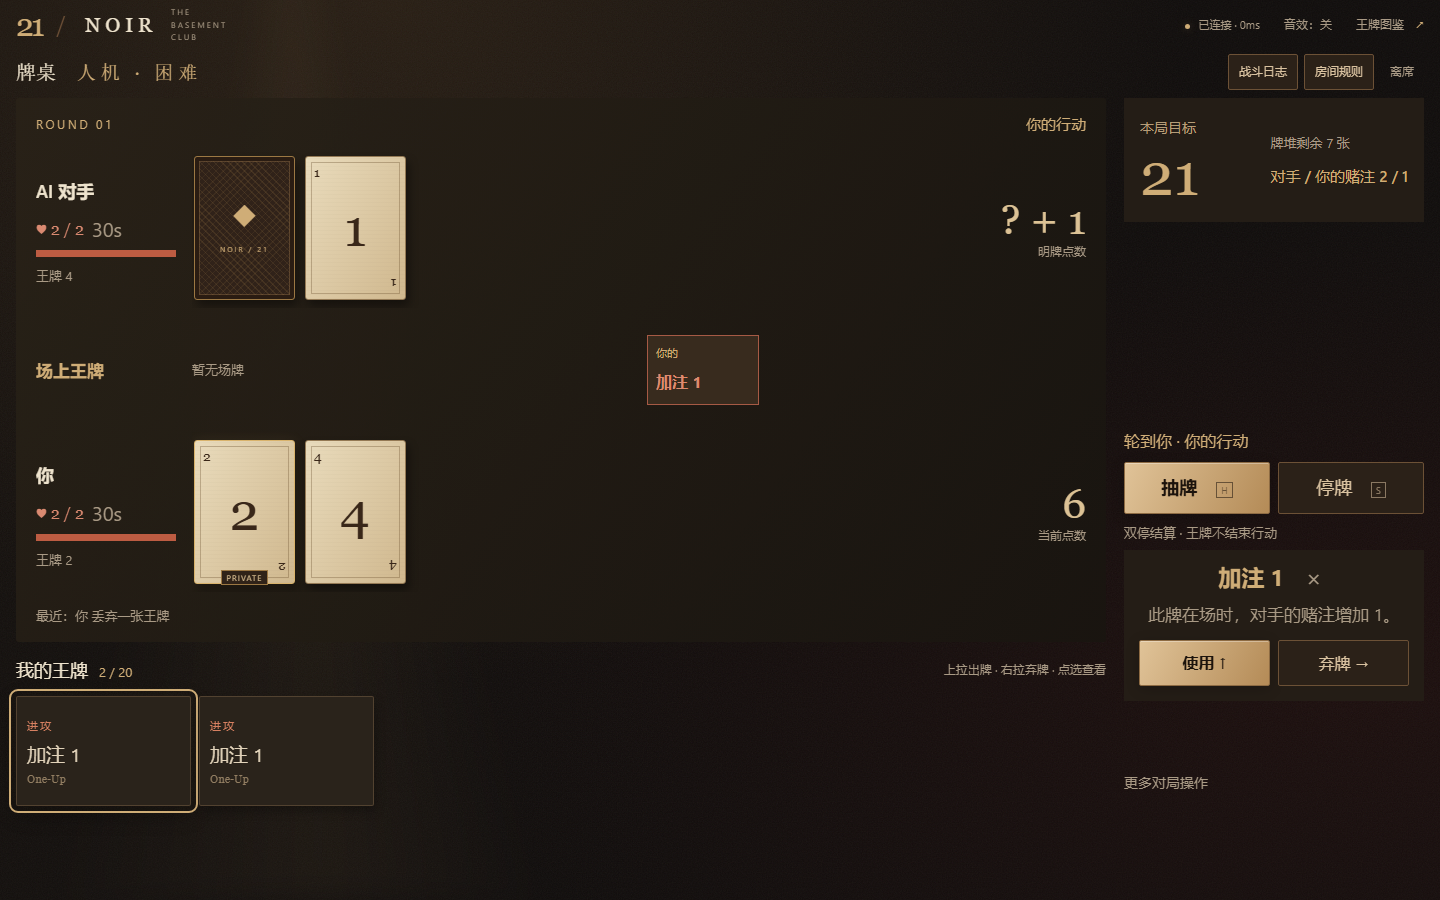
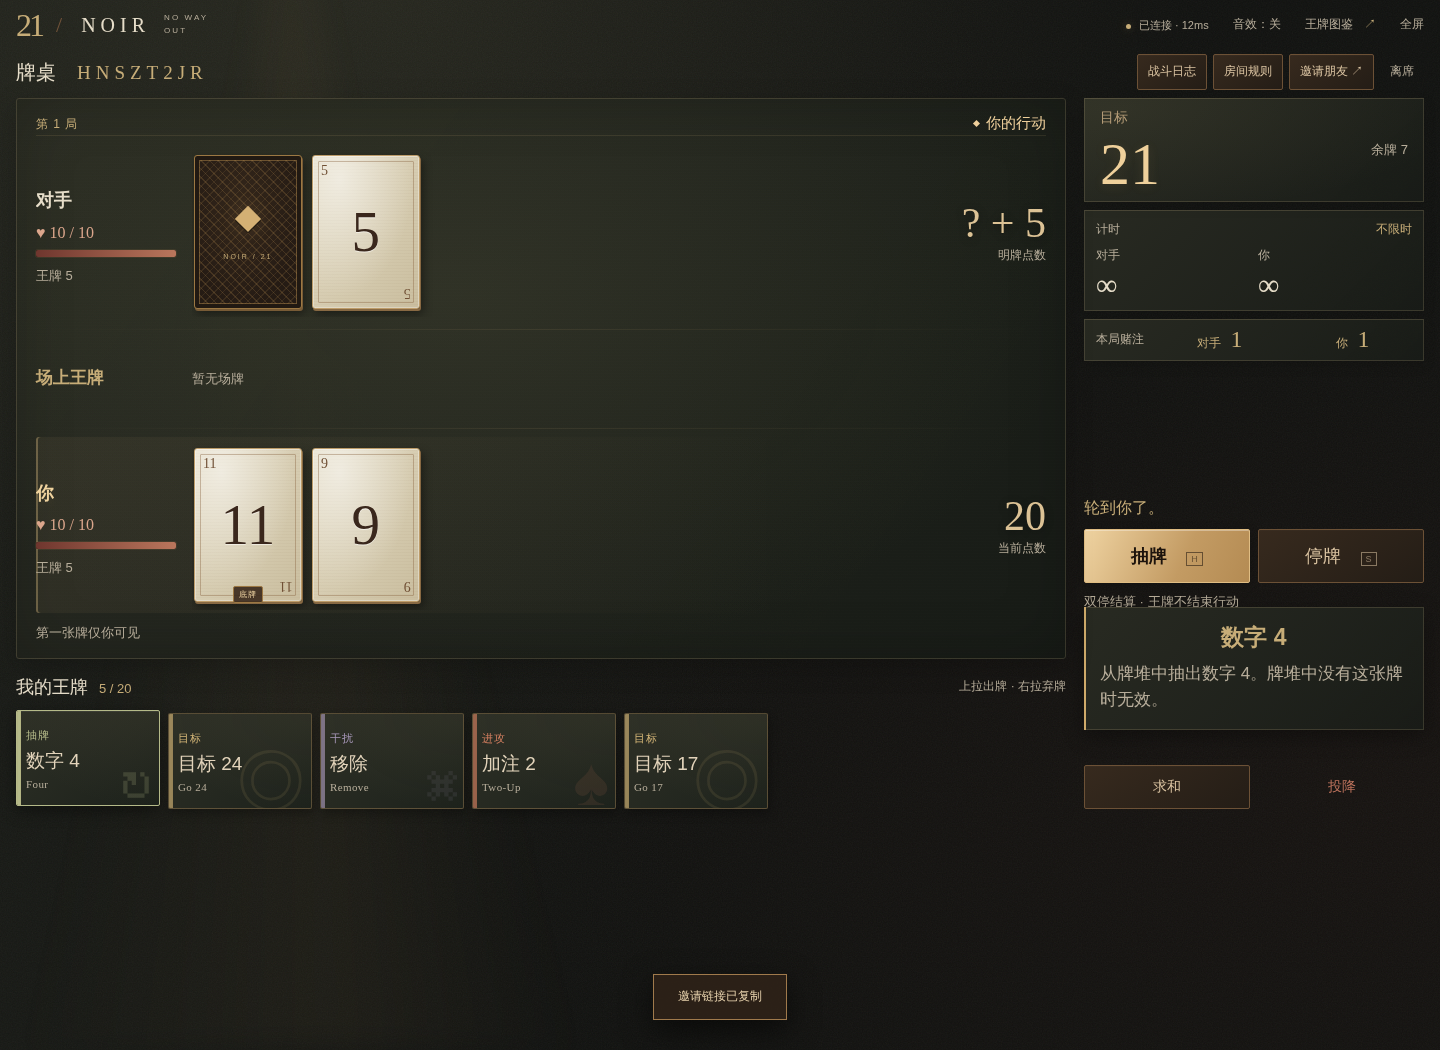
docs: put the live demo first in the README (#8)

diff --git a/README.md b/README.md
@@ -1,56 +1,114 @@
-# RE7 / 21 — NOIR Web
+<h1 align="center">RE7 / 21 — NOIR Web</h1>
 
-独立的浏览器双人 21 点游戏。复用 [RE7_21_Noir 桌面版](https://github.com/404elf/RE7_21_Noir) 的 Python 规则、全部 48 张王牌与 JSON 配置，以 FastAPI / WebSocket 提供联机；前端使用 HTML、CSS 和 JavaScript，无需安装 Pygame、Node.js 或数据库。
+<p align="center">
+  <strong>浏览器里的 21 点对决，保留原版 48 张王牌。</strong><br>
+  用房间码约朋友打一场，或选一个 AI 对手。打开网页就能玩，无需注册。
+</p>
 
-![Noir Web 首页](docs/web-noir-home.png)
+<p align="center">
+  <a href="https://game.404elf.dev/re7/"><strong>在线试玩 →</strong></a>
+  · <a href="#快速开始">快速开始</a>
+  · <a href="#自托管">自托管</a>
+  · <a href="#参与贡献">参与贡献</a>
+</p>
 
-两个浏览器通过房间码或邀请链接入座，完整打到生命耗尽，可刷新重连、求和、投降与再战。支持独立多房间、私有状态补丁和本地倒计时；界面包含纸牌翻转、拖牌、粒子、可选音效、手机布局与减少动态效果支持。
+<p align="center">
+  <a href="https://github.com/404elf/RE7_21_Noir_Web/actions/workflows/web.yml"><img alt="Browser game CI" src="https://github.com/404elf/RE7_21_Noir_Web/actions/workflows/web.yml/badge.svg?branch=main"></a>
+  <a href="#从源码运行"><img alt="Python 3.12+" src="https://img.shields.io/badge/Python-3.12%2B-3776AB"></a>
+  <a href="LICENSE"><img alt="MIT 许可证" src="https://img.shields.io/badge/License-MIT-blue"></a>
+</p>
 
-首页也可选择「人机对战」：复用原版四档难度和三种风格（极难不区分风格），支持相同自定义规则、计时、刷新和再战。AI 在服务器的独立进程中计算，只接收己方牌和公开信息。牌桌以原版左侧对手／场牌／自己、底部手中王牌、右侧目标与操作的固定分区为基准，手机保持相同信息顺序。
+[![NOIR Web 桌面牌桌：上方是对手，下方是自己的牌与王牌，右侧是回合操作](docs/web-noir-table.png)](https://game.404elf.dev/re7/)
 
-建房前点击「自定义玩法」，选择原版 8 套预设，或调整生命、目标、牌堆、王牌资源、牌池权重和计时。可导入原版 `config.json` / 预设 / `timer.json`，并分别导出规则与计时 JSON 分享。每个房间独立配置；双方可查看完整规则，房主在等待阶段修改后双方需重新准备，开局与再战期间规则锁定。无需重启服务或改服务器文件。
+<details>
+<summary>查看手机牌桌</summary>
+<br>
+<img src="docs/web-noir-mobile.png" alt="NOIR Web 手机竖屏牌桌" width="360">
+</details>
 
-## 本地运行
+## 快速开始
 
-需要 Python 3.12+，在虚拟环境中执行：
+1. 打开[在线试玩](https://game.404elf.dev/re7/)，输入昵称。
+2. **和朋友玩**：创建房间，把房间码或邀请链接发给对方。双方确认规则并准备即可开局。
+3. **自己玩**：选择「人机对战」，挑选难度和打法后入座。人机也通过网站服务器运行。
+
+抽牌或停牌可以点按钮，也可以用键盘 `H` / `S`。点选王牌查看效果，向上拖出牌，向右拖弃牌。在原标签页刷新，可以恢复仍有效的席位。
+
+## 游戏特色
+
+| 特色 | 玩法 |
+| --- | --- |
+| **48 张原版王牌** | 调整目标点数、改变赌注或交换牌张，让一手普通的 21 点有不同的解法。 |
+| **双人房间与人机对战** | 邀朋友进行完整对局，支持断线重连和再战；也可挑战原版四档 AI 难度。 |
+| **每桌独立规则** | 选择 8 套原版预设之一，或调整牌池、生命和计时。支持 `5+3` 等计时预设与规则 JSON 导入、导出。 |
+| **适配手机** | 竖屏与横屏布局、触屏拖牌、可选音效；浏览器支持时可进入全屏。 |
+
+Web 版复用桌面版的 Python 规则。FastAPI 负责房间、行动校验与计时，浏览器通过 WebSocket 同步牌局；前端使用 HTML、CSS 和 JavaScript，无需 Node.js 构建。
+
+## 自托管
+
+### Docker Compose
+
+需要 Docker 和 Compose。默认仅监听本机，适合先试跑：
+
+```sh
+git clone https://github.com/404elf/RE7_21_Noir_Web.git
+cd RE7_21_Noir_Web
+docker compose -p noir-web up --build -d
+```
+
+打开 [http://127.0.0.1:8000](http://127.0.0.1:8000)。健康检查入口为 `/healthz`；停止服务用 `docker compose -p noir-web down`。
+
+### 从源码运行
+
+在仓库目录使用 **Python 3.12+** 创建虚拟环境：
+
+```sh
+python -m venv .venv-web
+```
+
+| 系统 | 激活命令 |
+| --- | --- |
+| macOS / Linux | `source .venv-web/bin/activate` |
+| Windows PowerShell | `.\.venv-web\Scripts\Activate.ps1` |
 
 ```sh
 python -m pip install -r requirements-web.txt
 python -m uvicorn web.app:app --host 127.0.0.1 --port 8000 --workers 1 --ws-max-size 2048 --ws-max-queue 8
 ```
 
-打开 <http://127.0.0.1:8000>。Docker 运行：
+打开 [http://127.0.0.1:8000](http://127.0.0.1:8000)。Web 版不需要 Pygame 或数据库。测试双人对局时，请从首页新开第二个标签页，避免复制已有的席位凭证。
 
-```sh
-docker compose -p noir-web up --build -d
-```
+### 部署到子路径
 
-## 游戏路径与域名
+将 [环境变量示例](deploy/noir.env.example) 复制为 `.env`，按自己的域名修改。以正式试玩地址为例：
 
-部署到 `https://game.404elf.dev/re7` 时配置：
-
-```env
+```dotenv
 NOIR_BASE_PATH=/re7
 NOIR_ORIGIN=https://game.404elf.dev
 ```
 
-反向代理须保留 `/re7` 前缀并转发 WebSocket。以后更换 `404elf.dev`，只需更新 Origin、DNS、证书与代理配置，无需改源码或重建镜像。默认服务在根路径，本地 HTTP 测试时 Origin 可留空。[完整运行、配置、部署与换域名说明](docs/WEB.md) · [部署示例](deploy/noir.env.example)
+反向代理须**保留 `/re7` 前缀并转发 WebSocket**。`NOIR_ORIGIN` 只填来源，不带路径。房间保存在内存中，请运行 **一个 worker、一个服务副本**；重启会清空当前房间。
 
-## 验证
+- [完整运行、配置与部署指南](docs/WEB.md)
+- [Nginx 子路径代理示例](deploy/nginx-re7.conf.example)
+- [界面设计与取舍](docs/DESIGN.md)
+
+## 参与贡献
+
+欢迎[提交 Issue](https://github.com/404elf/RE7_21_Noir_Web/issues) 或 Pull Request。报告问题时请附上复现步骤、浏览器和设备；涉及计时或王牌时，也请注明房间配置。
+
+在开发环境运行基础回归和双浏览器测试：
 
 ```sh
 python -m pip install -r requirements-web-dev.txt
 python -m playwright install chromium
 python -m pytest tests -q
 python tests/web_e2e.py
-python tests/web_e2e.py --base-path /re7
-python tests/web_ai_e2e.py
 ```
 
-CI 在不安装 Pygame 的环境中验证共享规则、计时、全部王牌、消息隐私、重连、双浏览器完整对局、两套自定义规则并行对局、JSON 导入导出、准备确认、子路径及标准 Docker 构建。截图和消息字节报告作为 CI 附件保存。
+[GitHub Actions](https://github.com/404elf/RE7_21_Noir_Web/actions/workflows/web.yml) 另外验证子路径、界面、人机、延迟和 Docker 镜像。完整测试命令见 [Web 指南](docs/WEB.md#测试)。
 
-## 当前边界
+## 来源与许可
 
-房间保存在单进程内存中，重启会丢失；只运行一个 Web worker / 一个副本。当前上限为 64 个房间，其中最多 8 个人机房间、2 个 AI 决策进程；没有经过容量压测。人机也需连接服务器，Linux 每次计算最多 2 秒，超预算停牌。没有账号、排位、持久回放或旁观。Safari、Firefox、实际移动设备与公网弱网尚未完整验收。默认关闭行动计时；可通过 `timer.json` 启用已有准备/行动超时规则。
-
-本仓库独立发布和部署，不改变原桌面版的 main 或发布流程。复用来源、同步步骤与许可证见 [UPSTREAM.md](UPSTREAM.md) 和 [LICENSE](LICENSE)。
+这是 [RE7_21_Noir 桌面版](https://github.com/404elf/RE7_21_Noir) 的独立浏览器版本。共享规则的来源与同步方式见 [UPSTREAM.md](UPSTREAM.md)。代码以 [MIT 许可证](LICENSE) 发布。
